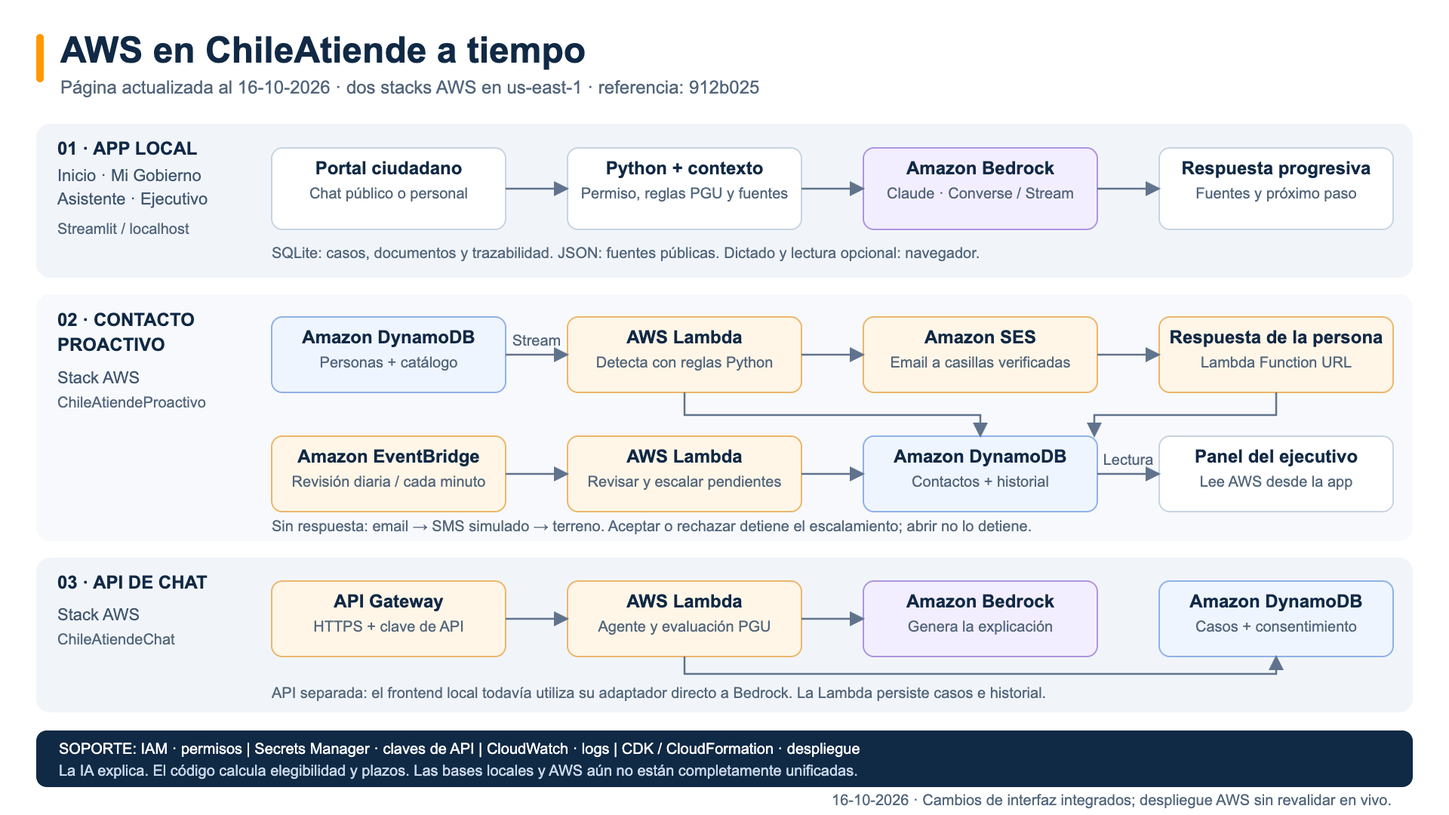
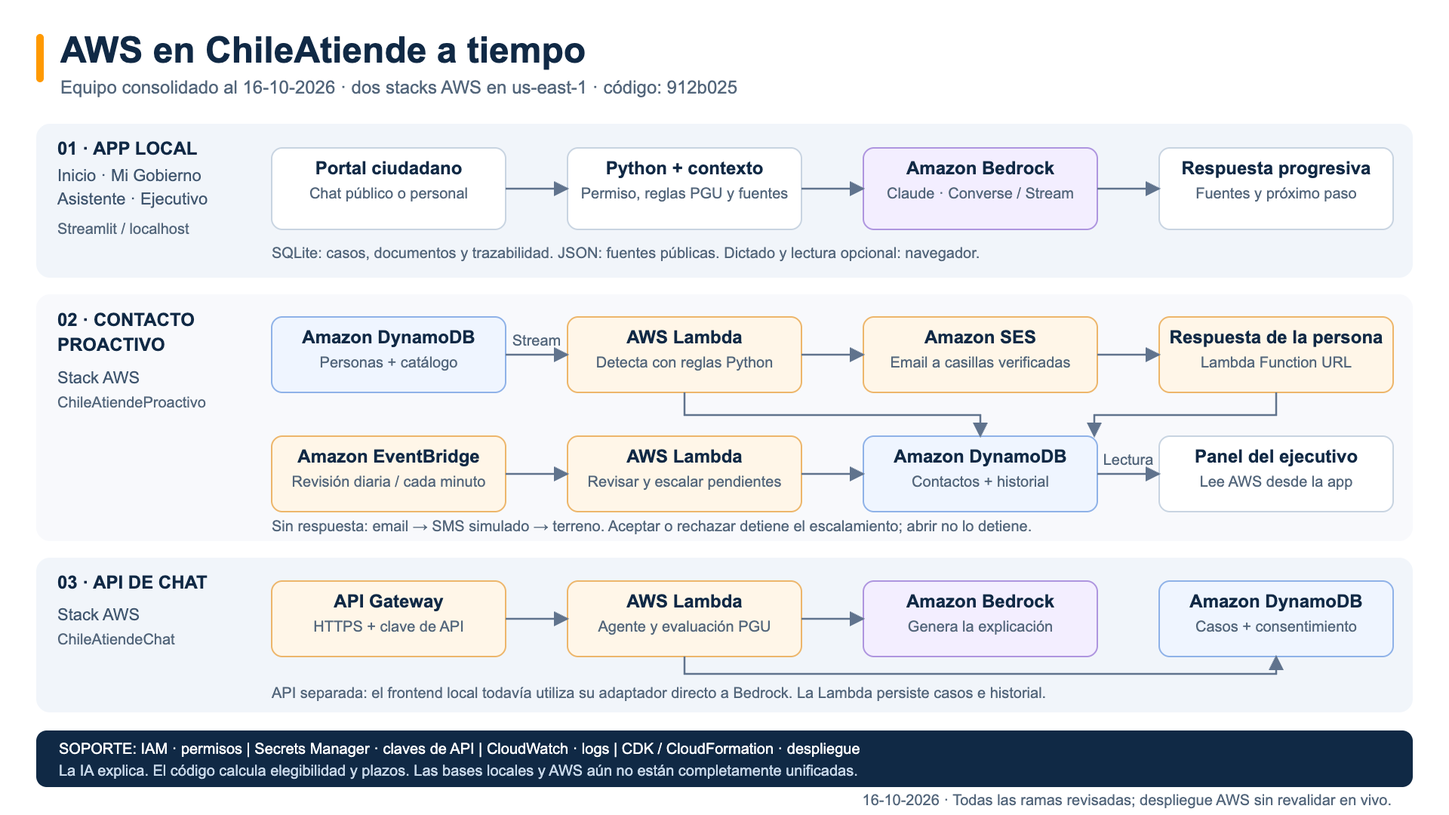
Consolidar presentación con aportes de todo el equipo

Changed region(s): [[0.0312, 0.0917, 0.5312, 0.1222], [0.5625, 0.9778, 0.7812, 1.0]]

diff --git a/20-arquitectura/presentacion-aws/arquitectura-aws.html b/20-arquitectura/presentacion-aws/arquitectura-aws.html
@@ -14,6 +14,6 @@ text{font-family:Arial,Helvetica,sans-serif}
 <rect x="48" y="45" width="10" height="64" rx="5" fill="#ff9900"/>
 <text x="80" y="83" class="title">AWS en ChileAtiende a tiempo</text>
 <text x="80" y="124" class="subtitle">
-Página actualizada al 16-10-2026 · dos stacks AWS en us-east-1 · referencia: 912b025
+Equipo consolidado al 16-10-2026 · dos stacks AWS en us-east-1 · código: 912b025
 </text>
-<rect x="48" y="164" width="1824" height="204" rx="18" fill="#f1f5fa" stroke="none" stroke-width="2"/><text x="76" y="205" class="label" text-anchor="start">01 · APP LOCAL</text><text x="76" y="240" class="body" text-anchor="start">Inicio · Mi Gobierno</text><text x="76" y="271" class="body" text-anchor="start">Asistente · Ejecutivo</text><text x="76" y="310" class="small" text-anchor="start">Streamlit / localhost</text><rect x="360" y="196" width="310" height="108" rx="14" fill="#fff" stroke="#c8d4e1" stroke-width="2"/><text x="515.0" y="231" class="label" text-anchor="middle">Portal ciudadano</text><text x="515.0" y="263" class="small" text-anchor="middle">Chat público o personal</text><rect x="752" y="196" width="310" height="108" rx="14" fill="#fff" stroke="#c8d4e1" stroke-width="2"/><text x="907.0" y="231" class="label" text-anchor="middle">Python + contexto</text><text x="907.0" y="263" class="small" text-anchor="middle">Permiso, reglas PGU y fuentes</text><rect x="1144" y="196" width="310" height="108" rx="14" fill="#f3eeff" stroke="#ae95df" stroke-width="2"/><text x="1299.0" y="231" class="label" text-anchor="middle">Amazon Bedrock</text><text x="1299.0" y="263" class="small" text-anchor="middle">Claude · Converse / Stream</text><path d="M670,250 L752,250" stroke="#60738d" fill="none" stroke-width="2.5" marker-end="url(#arrow)"/><path d="M1062,250 L1144,250" stroke="#60738d" fill="none" stroke-width="2.5" marker-end="url(#arrow)"/><rect x="1536" y="196" width="310" height="108" rx="14" fill="#fff" stroke="#c8d4e1" stroke-width="2"/><text x="1691.0" y="231" class="label" text-anchor="middle">Respuesta progresiva</text><text x="1691.0" y="263" class="small" text-anchor="middle">Fuentes y próximo paso</text><path d="M1454,250 L1536,250" stroke="#60738d" fill="none" stroke-width="2.5" marker-end="url(#arrow)"/><text x="360" y="342" class="small" text-anchor="start">SQLite: casos, documentos y trazabilidad. JSON: fuentes públicas. Dictado y lectura opcional: navegador.</text><rect x="48" y="390" width="1824" height="327" rx="18" fill="#f8f9fc" stroke="none" stroke-width="2"/><text x="76" y="432" class="label" text-anchor="start">02 · CONTACTO</text><text x="76" y="465" class="label" text-anchor="start">PROACTIVO</text><text x="76" y="508" class="body" text-anchor="start">Stack AWS</text><text x="76" y="540" class="small" text-anchor="start">ChileAtiendeProactivo</text><rect x="360" y="420" width="310" height="100" rx="14" fill="#eff5ff" stroke="#8fb2e8" stroke-width="2"/><text x="515.0" y="455" class="label" text-anchor="middle">Amazon DynamoDB</text><text x="515.0" y="487" class="small" text-anchor="middle">Personas + catálogo</text><rect x="752" y="420" width="310" height="100" rx="14" fill="#fff6e8" stroke="#edb66b" stroke-width="2"/><text x="907.0" y="455" class="label" text-anchor="middle">AWS Lambda</text><text x="907.0" y="487" class="small" text-anchor="middle">Detecta con reglas Python</text><rect x="1144" y="420" width="310" height="100" rx="14" fill="#fff6e8" stroke="#edb66b" stroke-width="2"/><text x="1299.0" y="455" class="label" text-anchor="middle">Amazon SES</text><text x="1299.0" y="487" class="small" text-anchor="middle">Email a casillas verificadas</text><rect x="1536" y="420" width="310" height="100" rx="14" fill="#fff6e8" stroke="#edb66b" stroke-width="2"/><text x="1691.0" y="455" class="label" text-anchor="middle">Respuesta de la persona</text><text x="1691.0" y="487" class="small" text-anchor="middle">Lambda Function URL</text><path d="M670,470 L752,470" stroke="#60738d" fill="none" stroke-width="2.5" marker-end="url(#arrow)"/><text x="711.0" y="458.0" class="small" text-anchor="middle">Stream</text><path d="M1062,470 L1144,470" stroke="#60738d" fill="none" stroke-width="2.5" marker-end="url(#arrow)"/><path d="M1454,470 L1536,470" stroke="#60738d" fill="none" stroke-width="2.5" marker-end="url(#arrow)"/><rect x="360" y="578" width="310" height="100" rx="14" fill="#fff6e8" stroke="#edb66b" stroke-width="2"/><text x="515.0" y="613" class="label" text-anchor="middle">Amazon EventBridge</text><text x="515.0" y="645" class="small" text-anchor="middle">Revisión diaria / cada minuto</text><rect x="752" y="578" width="310" height="100" rx="14" fill="#fff6e8" stroke="#edb66b" stroke-width="2"/><text x="907.0" y="613" class="label" text-anchor="middle">AWS Lambda</text><text x="907.0" y="645" class="small" text-anchor="middle">Revisar y escalar pendientes</text><rect x="1144" y="578" width="310" height="100" rx="14" fill="#eff5ff" stroke="#8fb2e8" stroke-width="2"/><text x="1299.0" y="613" class="label" text-anchor="middle">Amazon DynamoDB</text><text x="1299.0" y="645" class="small" text-anchor="middle">Contactos + historial</text><rect x="1536" y="578" width="310" height="100" rx="14" fill="#fff" stroke="#c8d4e1" stroke-width="2"/><text x="1691.0" y="613" class="label" text-anchor="middle">Panel del ejecutivo</text><text x="1691.0" y="645" class="small" text-anchor="middle">Lee AWS desde la app</text><path d="M670,628 L752,628" stroke="#60738d" fill="none" stroke-width="2.5" marker-end="url(#arrow)"/><path d="M1062,628 L1144,628" stroke="#60738d" fill="none" stroke-width="2.5" marker-end="url(#arrow)"/><path d="M1454,628 L1536,628" stroke="#60738d" fill="none" stroke-width="2.5" marker-end="url(#arrow)"/><text x="1495.0" y="616.0" class="small" text-anchor="middle">Lectura</text><path d="M907,520 L907,550 L1299,550 L1299,578" stroke="#60738d" fill="none" stroke-width="2.5" marker-end="url(#arrow)"/><path d="M1691,520 L1691,550 L1450,550 L1450,578" stroke="#60738d" fill="none" stroke-width="2.5" marker-end="url(#arrow)"/><text x="360" y="704" class="small" text-anchor="start">Sin respuesta: email → SMS simulado → terreno. Aceptar o rechazar detiene el escalamiento; abrir no lo detiene.</text><rect x="48" y="739" width="1824" height="205" rx="18" fill="#f1f5fa" stroke="none" stroke-width="2"/><text x="76" y="780" class="label" text-anchor="start">03 · API DE CHAT</text><text x="76" y="822" class="body" text-anchor="start">Stack AWS</text><text x="76" y="854" class="small" text-anchor="start">ChileAtiendeChat</text><rect x="360" y="770" width="310" height="100" rx="14" fill="#fff6e8" stroke="#edb66b" stroke-width="2"/><text x="515.0" y="805" class="label" text-anchor="middle">API Gateway</text><text x="515.0" y="837" class="small" text-anchor="middle">HTTPS + clave de API</text><rect x="752" y="770" width="310" height="100" rx="14" fill="#fff6e8" stroke="#edb66b" stroke-width="2"/><text x="907.0" y="805" class="label" text-anchor="middle">AWS Lambda</text><text x="907.0" y="837" class="small" text-anchor="middle">Agente y evaluación PGU</text><rect x="1144" y="770" width="310" height="100" rx="14" fill="#f3eeff" stroke="#ae95df" stroke-width="2"/><text x="1299.0" y="805" class="label" text-anchor="middle">Amazon Bedrock</text><text x="1299.0" y="837" class="small" text-anchor="middle">Genera la explicación</text><rect x="1536" y="770" width="310" height="100" rx="14" fill="#eff5ff" stroke="#8fb2e8" stroke-width="2"/><text x="1691.0" y="805" class="label" text-anchor="middle">Amazon DynamoDB</text><text x="1691.0" y="837" class="small" text-anchor="middle">Casos + consentimiento</text><path d="M670,820 L752,820" stroke="#60738d" fill="none" stroke-width="2.5" marker-end="url(#arrow)"/><path d="M1062,820 L1144,820" stroke="#60738d" fill="none" stroke-width="2.5" marker-end="url(#arrow)"/><path d="M907,870 L907,893 L1691,893 L1691,870" stroke="#60738d" fill="none" stroke-width="2.5" marker-end="url(#arrow)"/><text x="360" y="925" class="small" text-anchor="start">API separada: el frontend local todavía utiliza su adaptador directo a Bedrock. La Lambda persiste casos e historial.</text><rect x="48" y="968" width="1824" height="75" rx="14" fill="#102945" stroke="none" stroke-width="2"/><text x="78" y="999" class="small" text-anchor="start" style="fill:#fff">SOPORTE: IAM · permisos  |  Secrets Manager · claves de API  |  CloudWatch · logs  |  CDK / CloudFormation · despliegue</text><text x="78" y="1028" class="small" text-anchor="start" style="fill:#c9d9ea">La IA explica. El código calcula elegibilidad y plazos. Las bases locales y AWS aún no están completamente unificadas.</text><text x="1844" y="1067" class="small" text-anchor="end">16-10-2026 · Cambios de interfaz integrados; despliegue AWS sin revalidar en vivo.</text></svg>
+<rect x="48" y="164" width="1824" height="204" rx="18" fill="#f1f5fa" stroke="none" stroke-width="2"/><text x="76" y="205" class="label" text-anchor="start">01 · APP LOCAL</text><text x="76" y="240" class="body" text-anchor="start">Inicio · Mi Gobierno</text><text x="76" y="271" class="body" text-anchor="start">Asistente · Ejecutivo</text><text x="76" y="310" class="small" text-anchor="start">Streamlit / localhost</text><rect x="360" y="196" width="310" height="108" rx="14" fill="#fff" stroke="#c8d4e1" stroke-width="2"/><text x="515.0" y="231" class="label" text-anchor="middle">Portal ciudadano</text><text x="515.0" y="263" class="small" text-anchor="middle">Chat público o personal</text><rect x="752" y="196" width="310" height="108" rx="14" fill="#fff" stroke="#c8d4e1" stroke-width="2"/><text x="907.0" y="231" class="label" text-anchor="middle">Python + contexto</text><text x="907.0" y="263" class="small" text-anchor="middle">Permiso, reglas PGU y fuentes</text><rect x="1144" y="196" width="310" height="108" rx="14" fill="#f3eeff" stroke="#ae95df" stroke-width="2"/><text x="1299.0" y="231" class="label" text-anchor="middle">Amazon Bedrock</text><text x="1299.0" y="263" class="small" text-anchor="middle">Claude · Converse / Stream</text><path d="M670,250 L752,250" stroke="#60738d" fill="none" stroke-width="2.5" marker-end="url(#arrow)"/><path d="M1062,250 L1144,250" stroke="#60738d" fill="none" stroke-width="2.5" marker-end="url(#arrow)"/><rect x="1536" y="196" width="310" height="108" rx="14" fill="#fff" stroke="#c8d4e1" stroke-width="2"/><text x="1691.0" y="231" class="label" text-anchor="middle">Respuesta progresiva</text><text x="1691.0" y="263" class="small" text-anchor="middle">Fuentes y próximo paso</text><path d="M1454,250 L1536,250" stroke="#60738d" fill="none" stroke-width="2.5" marker-end="url(#arrow)"/><text x="360" y="342" class="small" text-anchor="start">SQLite: casos, documentos y trazabilidad. JSON: fuentes públicas. Dictado y lectura opcional: navegador.</text><rect x="48" y="390" width="1824" height="327" rx="18" fill="#f8f9fc" stroke="none" stroke-width="2"/><text x="76" y="432" class="label" text-anchor="start">02 · CONTACTO</text><text x="76" y="465" class="label" text-anchor="start">PROACTIVO</text><text x="76" y="508" class="body" text-anchor="start">Stack AWS</text><text x="76" y="540" class="small" text-anchor="start">ChileAtiendeProactivo</text><rect x="360" y="420" width="310" height="100" rx="14" fill="#eff5ff" stroke="#8fb2e8" stroke-width="2"/><text x="515.0" y="455" class="label" text-anchor="middle">Amazon DynamoDB</text><text x="515.0" y="487" class="small" text-anchor="middle">Personas + catálogo</text><rect x="752" y="420" width="310" height="100" rx="14" fill="#fff6e8" stroke="#edb66b" stroke-width="2"/><text x="907.0" y="455" class="label" text-anchor="middle">AWS Lambda</text><text x="907.0" y="487" class="small" text-anchor="middle">Detecta con reglas Python</text><rect x="1144" y="420" width="310" height="100" rx="14" fill="#fff6e8" stroke="#edb66b" stroke-width="2"/><text x="1299.0" y="455" class="label" text-anchor="middle">Amazon SES</text><text x="1299.0" y="487" class="small" text-anchor="middle">Email a casillas verificadas</text><rect x="1536" y="420" width="310" height="100" rx="14" fill="#fff6e8" stroke="#edb66b" stroke-width="2"/><text x="1691.0" y="455" class="label" text-anchor="middle">Respuesta de la persona</text><text x="1691.0" y="487" class="small" text-anchor="middle">Lambda Function URL</text><path d="M670,470 L752,470" stroke="#60738d" fill="none" stroke-width="2.5" marker-end="url(#arrow)"/><text x="711.0" y="458.0" class="small" text-anchor="middle">Stream</text><path d="M1062,470 L1144,470" stroke="#60738d" fill="none" stroke-width="2.5" marker-end="url(#arrow)"/><path d="M1454,470 L1536,470" stroke="#60738d" fill="none" stroke-width="2.5" marker-end="url(#arrow)"/><rect x="360" y="578" width="310" height="100" rx="14" fill="#fff6e8" stroke="#edb66b" stroke-width="2"/><text x="515.0" y="613" class="label" text-anchor="middle">Amazon EventBridge</text><text x="515.0" y="645" class="small" text-anchor="middle">Revisión diaria / cada minuto</text><rect x="752" y="578" width="310" height="100" rx="14" fill="#fff6e8" stroke="#edb66b" stroke-width="2"/><text x="907.0" y="613" class="label" text-anchor="middle">AWS Lambda</text><text x="907.0" y="645" class="small" text-anchor="middle">Revisar y escalar pendientes</text><rect x="1144" y="578" width="310" height="100" rx="14" fill="#eff5ff" stroke="#8fb2e8" stroke-width="2"/><text x="1299.0" y="613" class="label" text-anchor="middle">Amazon DynamoDB</text><text x="1299.0" y="645" class="small" text-anchor="middle">Contactos + historial</text><rect x="1536" y="578" width="310" height="100" rx="14" fill="#fff" stroke="#c8d4e1" stroke-width="2"/><text x="1691.0" y="613" class="label" text-anchor="middle">Panel del ejecutivo</text><text x="1691.0" y="645" class="small" text-anchor="middle">Lee AWS desde la app</text><path d="M670,628 L752,628" stroke="#60738d" fill="none" stroke-width="2.5" marker-end="url(#arrow)"/><path d="M1062,628 L1144,628" stroke="#60738d" fill="none" stroke-width="2.5" marker-end="url(#arrow)"/><path d="M1454,628 L1536,628" stroke="#60738d" fill="none" stroke-width="2.5" marker-end="url(#arrow)"/><text x="1495.0" y="616.0" class="small" text-anchor="middle">Lectura</text><path d="M907,520 L907,550 L1299,550 L1299,578" stroke="#60738d" fill="none" stroke-width="2.5" marker-end="url(#arrow)"/><path d="M1691,520 L1691,550 L1450,550 L1450,578" stroke="#60738d" fill="none" stroke-width="2.5" marker-end="url(#arrow)"/><text x="360" y="704" class="small" text-anchor="start">Sin respuesta: email → SMS simulado → terreno. Aceptar o rechazar detiene el escalamiento; abrir no lo detiene.</text><rect x="48" y="739" width="1824" height="205" rx="18" fill="#f1f5fa" stroke="none" stroke-width="2"/><text x="76" y="780" class="label" text-anchor="start">03 · API DE CHAT</text><text x="76" y="822" class="body" text-anchor="start">Stack AWS</text><text x="76" y="854" class="small" text-anchor="start">ChileAtiendeChat</text><rect x="360" y="770" width="310" height="100" rx="14" fill="#fff6e8" stroke="#edb66b" stroke-width="2"/><text x="515.0" y="805" class="label" text-anchor="middle">API Gateway</text><text x="515.0" y="837" class="small" text-anchor="middle">HTTPS + clave de API</text><rect x="752" y="770" width="310" height="100" rx="14" fill="#fff6e8" stroke="#edb66b" stroke-width="2"/><text x="907.0" y="805" class="label" text-anchor="middle">AWS Lambda</text><text x="907.0" y="837" class="small" text-anchor="middle">Agente y evaluación PGU</text><rect x="1144" y="770" width="310" height="100" rx="14" fill="#f3eeff" stroke="#ae95df" stroke-width="2"/><text x="1299.0" y="805" class="label" text-anchor="middle">Amazon Bedrock</text><text x="1299.0" y="837" class="small" text-anchor="middle">Genera la explicación</text><rect x="1536" y="770" width="310" height="100" rx="14" fill="#eff5ff" stroke="#8fb2e8" stroke-width="2"/><text x="1691.0" y="805" class="label" text-anchor="middle">Amazon DynamoDB</text><text x="1691.0" y="837" class="small" text-anchor="middle">Casos + consentimiento</text><path d="M670,820 L752,820" stroke="#60738d" fill="none" stroke-width="2.5" marker-end="url(#arrow)"/><path d="M1062,820 L1144,820" stroke="#60738d" fill="none" stroke-width="2.5" marker-end="url(#arrow)"/><path d="M907,870 L907,893 L1691,893 L1691,870" stroke="#60738d" fill="none" stroke-width="2.5" marker-end="url(#arrow)"/><text x="360" y="925" class="small" text-anchor="start">API separada: el frontend local todavía utiliza su adaptador directo a Bedrock. La Lambda persiste casos e historial.</text><rect x="48" y="968" width="1824" height="75" rx="14" fill="#102945" stroke="none" stroke-width="2"/><text x="78" y="999" class="small" text-anchor="start" style="fill:#fff">SOPORTE: IAM · permisos  |  Secrets Manager · claves de API  |  CloudWatch · logs  |  CDK / CloudFormation · despliegue</text><text x="78" y="1028" class="small" text-anchor="start" style="fill:#c9d9ea">La IA explica. El código calcula elegibilidad y plazos. Las bases locales y AWS aún no están completamente unificadas.</text><text x="1844" y="1067" class="small" text-anchor="end">16-10-2026 · Todas las ramas revisadas; despliegue AWS sin revalidar en vivo.</text></svg>

diff --git a/20-arquitectura/presentacion-aws/aportes-equipo.html b/20-arquitectura/presentacion-aws/aportes-equipo.html
@@ -1,0 +1,13 @@
+<!doctype html><meta charset="utf-8"><style>html,body{margin:0;width:1920px;height:1080px;overflow:hidden}svg{display:block}</style><svg xmlns="http://www.w3.org/2000/svg" width="1920" height="1080" viewBox="0 0 1920 1080">
+<defs><marker id="arrow" viewBox="0 0 10 10" refX="9" refY="5" markerWidth="8"
+markerHeight="8" orient="auto-start-reverse">
+<path d="M0,0 L10,5 L0,10 Z" fill="#60738d"/></marker></defs>
+<style>
+text{font-family:Arial,Helvetica,sans-serif}
+.title{font-size:48px;font-weight:700;fill:#102945}
+.subtitle{font-size:24px;fill:#53667b}
+.label{font-size:24px;font-weight:700;fill:#102945}
+.body{font-size:22px;fill:#3f556e}
+.small{font-size:20px;fill:#53667b}
+</style>
+<rect width="1920" height="1080" fill="#fff"/><text x="72" y="82" class="title" text-anchor="start">Aportes consolidados del equipo</text><text x="72" y="127" class="subtitle" text-anchor="start">Cinco integrantes · revisión de todas las ramas remotas · 16-10-2026</text><rect x="48" y="177" width="1824" height="126" rx="18" fill="#f1f5fa" stroke="none" stroke-width="2"/><text x="80" y="223" class="label" text-anchor="start">Johann</text><text x="360" y="216" class="label" text-anchor="start">Base de la aplicación y motor de rutas</text><text x="360" y="252" class="body" text-anchor="start">Portal, Mi Gobierno, reglas PGU y catálogo público para el asistente.</text><text x="360" y="284" class="small" text-anchor="start">0d06dab · ad7efb0</text><text x="1825" y="282" class="small" text-anchor="end">Código integrado</text><rect x="48" y="321" width="1824" height="126" rx="18" fill="#f8f9fc" stroke="none" stroke-width="2"/><text x="80" y="367" class="label" text-anchor="start">Clemente</text><text x="360" y="360" class="label" text-anchor="start">Detección, contacto y seguimiento</text><text x="360" y="396" class="body" text-anchor="start">Flujo proactivo AWS, colador local, campañas, ficha y trazabilidad.</text><text x="360" y="428" class="small" text-anchor="start">edb8191 · 96abb06</text><text x="1825" y="426" class="small" text-anchor="end">Código integrado</text><rect x="48" y="465" width="1824" height="126" rx="18" fill="#f1f5fa" stroke="none" stroke-width="2"/><text x="80" y="511" class="label" text-anchor="start">Jonmor</text><text x="360" y="504" class="label" text-anchor="start">API del chat y continuidad conversacional</text><text x="360" y="540" class="body" text-anchor="start">Casos DynamoDB, consentimiento, Bedrock, pruebas, memoria y voz.</text><text x="360" y="572" class="small" text-anchor="start">df99c3b · 7ba7c2f</text><text x="1825" y="570" class="small" text-anchor="end">Código integrado</text><rect x="48" y="609" width="1824" height="126" rx="18" fill="#f8f9fc" stroke="none" stroke-width="2"/><text x="80" y="655" class="label" text-anchor="start">Bruno</text><text x="360" y="648" class="label" text-anchor="start">Investigación y diseño de la experiencia</text><text x="360" y="684" class="body" text-anchor="start">Contexto de personas mayores, accesibilidad y propuestas de flujo.</text><text x="360" y="716" class="small" text-anchor="start">f4ca21c · d9eb707</text><text x="1825" y="714" class="small" text-anchor="end">Documentación integrada</text><rect x="48" y="753" width="1824" height="126" rx="18" fill="#f1f5fa" stroke="none" stroke-width="2"/><text x="80" y="799" class="label" text-anchor="start">Jp</text><text x="360" y="792" class="label" text-anchor="start">Experiencia de usuario y presentación</text><text x="360" y="828" class="body" text-anchor="start">Estilo visual, micrófono, respuestas progresivas y material del pitch.</text><text x="360" y="860" class="small" text-anchor="start">8909d96 · 3d2f6d2</text><text x="1825" y="858" class="small" text-anchor="end">Código y material integrados</text><rect x="48" y="923" width="1824" height="102" rx="14" fill="#102945" stroke="none" stroke-width="2"/><text x="78" y="963" class="label" text-anchor="start" style="fill:#fff">UNA SOLUCIÓN COMPARTIDA</text><text x="78" y="1000" class="body" text-anchor="start" style="fill:#fff">Detectar → contactar → autorizar → orientar → acompañar → seguimiento del ejecutivo</text><text x="72" y="1066" class="small" text-anchor="start">Los aportes se superponen. Las propuestas de investigación no equivalen a funciones implementadas.</text></svg>

diff --git a/scripts/generar_presentacion_aws.py b/scripts/generar_presentacion_aws.py
@@ -23,7 +23,7 @@ text{font-family:Arial,Helvetica,sans-serif}
 <rect x="48" y="45" width="10" height="64" rx="5" fill="#ff9900"/>
 <text x="80" y="83" class="title">AWS en ChileAtiende a tiempo</text>
 <text x="80" y="124" class="subtitle">
-Página actualizada al 16-10-2026 · dos stacks AWS en us-east-1 · referencia: 912b025
+Equipo consolidado al 16-10-2026 · dos stacks AWS en us-east-1 · código: 912b025
 </text>
 """
 ]
@@ -170,7 +170,7 @@ txt(
 txt(
     1844,
     1067,
-    "16-10-2026 · Cambios de interfaz integrados; despliegue AWS sin revalidar en vivo.",
+    "16-10-2026 · Todas las ramas revisadas; despliegue AWS sin revalidar en vivo.",
     "small",
     "end",
 )
@@ -317,6 +317,82 @@ journey = "".join(parts)
 )
 print(OUT / "recorrido-pagina.svg")
 
+# Tercera diapositiva: aportes trazables en commits y documentación del equipo.
+parts = [svg[: svg.index('<rect width="1920"')], '<rect width="1920" height="1080" fill="#fff"/>']
+txt(72, 82, "Aportes consolidados del equipo", "title")
+txt(72, 127, "Cinco integrantes · revisión de todas las ramas remotas · 16-10-2026", "subtitle")
+contributions = [
+    (
+        "Johann",
+        "Base de la aplicación y motor de rutas",
+        "Portal, Mi Gobierno, reglas PGU y catálogo público para el asistente.",
+        "0d06dab · ad7efb0",
+        "Código integrado",
+    ),
+    (
+        "Clemente",
+        "Detección, contacto y seguimiento",
+        "Flujo proactivo AWS, colador local, campañas, ficha y trazabilidad.",
+        "edb8191 · 96abb06",
+        "Código integrado",
+    ),
+    (
+        "Jonmor",
+        "API del chat y continuidad conversacional",
+        "Casos DynamoDB, consentimiento, Bedrock, pruebas, memoria y voz.",
+        "df99c3b · 7ba7c2f",
+        "Código integrado",
+    ),
+    (
+        "Bruno",
+        "Investigación y diseño de la experiencia",
+        "Contexto de personas mayores, accesibilidad y propuestas de flujo.",
+        "f4ca21c · d9eb707",
+        "Documentación integrada",
+    ),
+    (
+        "Jp",
+        "Experiencia de usuario y presentación",
+        "Estilo visual, micrófono, respuestas progresivas y material del pitch.",
+        "8909d96 · 3d2f6d2",
+        "Código y material integrados",
+    ),
+]
+for index, (person, title, description, commits, status) in enumerate(contributions):
+    y = 177 + index * 144
+    rect(48, y, 1824, 126, "#f1f5fa" if index % 2 == 0 else "#f8f9fc")
+    txt(80, y + 46, person, "label")
+    txt(360, y + 39, title, "label")
+    txt(360, y + 75, description, "body")
+    txt(360, y + 107, commits, "small")
+    txt(1825, y + 105, status, "small", "end")
+rect(48, 923, 1824, 102, "#102945", r=14)
+txt(78, 963, "UNA SOLUCIÓN COMPARTIDA", "label", fill="#fff")
+txt(
+    78,
+    1000,
+    "Detectar → contactar → autorizar → orientar → acompañar → seguimiento del ejecutivo",
+    "body",
+    fill="#fff",
+)
+txt(
+    72,
+    1066,
+    "Los aportes se superponen. Las propuestas de investigación "
+    "no equivalen a funciones implementadas.",
+    "small",
+)
+parts.append("</svg>")
+team = "".join(parts)
+(OUT / "aportes-equipo.svg").write_text(team, encoding="utf-8")
+(OUT / "aportes-equipo.html").write_text(
+    '<!doctype html><meta charset="utf-8">'
+    "<style>html,body{margin:0;width:1920px;height:1080px;overflow:hidden}"
+    "svg{display:block}</style>" + team,
+    encoding="utf-8",
+)
+print(OUT / "aportes-equipo.svg")
+
 if __name__ == "__main__":
     parser = argparse.ArgumentParser(description=__doc__)
     parser.add_argument("--png", action="store_true", help="Exportar con Playwright y Chrome")
@@ -338,7 +414,7 @@ if __name__ == "__main__":
         with sync_playwright() as playwright:
             browser = playwright.chromium.launch(executable_path=chrome, headless=True)
             page = browser.new_page(viewport={"width": 1920, "height": 1080})
-            for name in ("arquitectura-aws", "recorrido-pagina"):
+            for name in ("arquitectura-aws", "recorrido-pagina", "aportes-equipo"):
                 page.goto((OUT / f"{name}.html").as_uri())
                 overflow = page.locator("svg text").evaluate_all("""els => els.filter(e => {
                     const b = e.getBBox();

diff --git a/20-arquitectura/presentacion-servicios-aws.md b/20-arquitectura/presentacion-servicios-aws.md
@@ -2,6 +2,7 @@
 tipo: presentacion
 fecha: 2026-10-16
 referencia_codigo: 912b025
+integracion_equipo: d06e521
 ---
 # Servicios AWS y recorrido actual de la página
 
@@ -9,10 +10,25 @@ Material para presentar [[arquitectura-chileatiende]], [[mi-gobierno]] y [[porta
 
 ## Diagramas para las diapositivas
 
-Ambas láminas usan formato 16:9, 1920 × 1080. SVG permite editar o escalar y PNG permite insertar directamente en PowerPoint/Google Slides. HTML abre la misma lámina en el navegador.
+Las tres láminas usan formato 16:9, 1920 × 1080. SVG permite editar o escalar y PNG permite insertar directamente en PowerPoint/Google Slides. HTML abre la misma lámina en el navegador.
 
 - Arquitectura: [PNG](presentacion-aws/arquitectura-aws.png) · [SVG](presentacion-aws/arquitectura-aws.svg) · [HTML](presentacion-aws/arquitectura-aws.html).
 - Recorrido de la página: [PNG](presentacion-aws/recorrido-pagina.png) · [SVG](presentacion-aws/recorrido-pagina.svg) · [HTML](presentacion-aws/recorrido-pagina.html).
+- Aportes del equipo: [PNG](presentacion-aws/aportes-equipo.png) · [SVG](presentacion-aws/aportes-equipo.svg) · [HTML](presentacion-aws/aportes-equipo.html).
+
+## Aportes consolidados de todos
+
+Se revisaron todas las ramas publicadas de `origin`. `origin/main` permanece en `912b025`; sus cambios ya estaban integrados. La rama `origin/johann/app-mvp-ruta-pgu` también es antecesora del checkout. El único commit remoto fuera del historial era `d9eb707` de `origin/brunoupdates`: la investigación ya existía en `f4ca21c` con el mismo contenido, salvo saltos de línea. Se integra su historial en `d06e521`, preservando la copia existente sin duplicarla. No había funciones nuevas de AWS o de la página pendientes en esas ramas.
+
+| Integrante | Aportes presentes en la solución | Evidencia representativa |
+|---|---|---|
+| Johann | App Streamlit, reglas/rutas, Mi Gobierno y base de conocimiento oficial | `0d06dab`, `ad7efb0` |
+| Clemente | Colador, detección proactiva AWS, campañas, ejecutivo y trazabilidad | `7d1d8e0`, `edb8191`, `81755d7`, `96abb06` |
+| Jonmor | API del chat, persistencia DynamoDB, autorización, evaluación, conversación y voz | `df99c3b`, `7ba7c2f` |
+| Bruno | Investigación sobre personas mayores, accesibilidad, diseño y especificaciones | `f4ca21c`, `d9eb707`, `b21b0f1` |
+| Jp | Diseño del frontend, streaming, micrófono, consulta personal y presentación | `8909d96`, `85244ef`, `a9a28af`, `3d2f6d2` |
+
+La tabla resume evidencia del trabajo compartido; los aportes se superponen. La investigación de Bruno se conserva como contexto y propuestas: sus cifras y recomendaciones no se convierten automáticamente en resultados del producto ni en implementaciones adicionales. Las decisiones de elegibilidad siguen en código.
 
 ## Qué cambió en la página
 

diff --git a/35-roles/Clemente/board-clemente.md b/35-roles/Clemente/board-clemente.md
@@ -15,7 +15,6 @@ entorno: Claude Code + Codex
 Lista de pendientes propia, sin tareas asignadas. Ordenada según el pipeline de [[_equipo]].
 
 ## En curso
-- [ ] Consolidar aportes de todas las ramas remotas y actualizar trazabilidad del equipo en la presentación · [[presentacion-servicios-aws]].
 - [ ] Detección proactiva en AWS (DynamoDB Streams + Lambda + SES): desplegada el 15-10 en la cuenta del evento (stack `ChileAtiendeProactivo`), 618 contactos simulados cargados; falta verificar la casilla en SES y probar la demo estrella · [[deteccion-proactiva-aws]]
 
 ## Por hacer
@@ -69,6 +68,7 @@ Los plazos son propuestas de demo, no plazos institucionales. El acompañamiento
 - Datos reales de contacto/provincia siguen pendientes de los mentores. La capa sintética desbloquea el colador de demo y puede alimentar el futuro heatmap; no representa domicilios reales.
 
 ## Hecho
+- [x] Revisadas e integradas todas las ramas remotas del equipo; historial de investigación de Bruno conciliado sin duplicar documento (`d06e521`). Presentación consolidada con tercera lámina de aportes, SVG/PNG/HTML y copia temporal actualizados. Sin cambios funcionales respecto de la última suite de 305 pruebas · [[presentacion-servicios-aws]].
 - [x] Presentación AWS actualizada al 16-10: arquitectura y recorrido vigente en SVG/PNG/HTML, explicación y guion; copia temporal del SVG abierto renovada. Cambios de página hasta `912b025` integrados (`ee1829e`), 305 pruebas y verificador de 500 perfiles OK · [[presentacion-servicios-aws]].
 - [x] Últimos pushes integrados hasta `5fc01c9`; verificación local: 282 pruebas, 15 de conocimiento, 500 perfiles y ambos chats en Chrome 390/1440 px OK. Tras alineación: 47 pruebas relacionadas OK. AWS real pendiente por ausencia de perfil en esta terminal; lint global heredado documentado. `f4dc140`, `2ffeca8`, integración `8c3686b` · [[verificacion-integracion-2026-10-15]].
 - [x] Animaciones del home: entrada escalonada, revelado al hacer scroll y tarjetas con hover suave. Cinco pruebas, Ruff y Chromium 390/1440 px normal/reducido OK. [[portal-ayuda-tramites]]. Commit: Pulir animaciones del home.

diff --git a/35-roles/Clemente/bitacora-clemente.md b/35-roles/Clemente/bitacora-clemente.md
@@ -4,6 +4,11 @@ integrante: Clemente
 ---
 # Bitácora de Clemente
 
+### 2026-10-16 · Consolidación de aportes de todos · `d06e521`
+- `origin/main` no tenía nuevos cambios; inspeccionadas todas las ramas remotas. Único commit no incluido: `d9eb707` de Bruno, investigación idéntica a la ya incorporada salvo CRLF/LF. Merge add/add resuelto conservando el documento existente; todas las puntas remotas son antecesoras del checkout.
+- Presentación con aportes trazables de Johann, Clemente, Jonmor, Bruno y Jp; tercera lámina editable y exportaciones PNG/HTML. Renovada la copia temporal del archivo abierto. No se presentan propuestas de investigación como funciones existentes.
+- Diff de `src/`, `infra/`, tests y dependencias vacío respecto de `3d2f6d2`: se conserva la última validación de 305 pruebas; no se repite la suite por cambios documentales. Ruff del generador, XML, límites del texto y revisión visual de las láminas OK. [[presentacion-servicios-aws]].
+
 ### 2026-10-16 · Actualizar la presentación con la página vigente · integración `ee1829e`
 - Incorporados ocho commits hasta `912b025`: home, datos personales, detalles de beneficios y mejoras de conversación/streaming/scroll. Conflictos del board y prueba de streaming resueltos conservando las citas controladas y la nueva regresión sin cursor.
 - Dos diagramas 16:9 (arquitectura y recorrido de página) versionados en `20-arquitectura/presentacion-aws/`, con SVG, PNG y HTML; generador reproducible y explicación/guion en [[presentacion-servicios-aws]]. Renovados los archivos temporales abiertos por el usuario.

diff --git a/40-bitacora/2026-10-16.md b/40-bitacora/2026-10-16.md
@@ -4,6 +4,8 @@ fecha: 2026-10-16
 ---
 # Bitácora del 16 de octubre
 
+- Codex: revisadas todas las ramas del equipo y conciliado el historial de Bruno (`d06e521`) sin duplicar su investigación ya existente. Presentación actualizada con tercera lámina de aportes de los cinco integrantes y referencias a commits; todas las ramas remotas incluidas. Sin cambios funcionales, última suite de 305 pruebas conservada; Ruff/XML/exportaciones y revisión visual OK. [[presentacion-servicios-aws]].
+
 - Codex: actualizados los materiales de presentación con la página hasta `912b025`, integración `ee1829e`. Arquitectura y recorrido en SVG/PNG/HTML, guion, explicación y generador reproducible; copia del SVG abierto renovada. 305 pruebas, verificador de 500 perfiles, validación XML e imágenes sin desborde OK. [[presentacion-servicios-aws]].
 
 - 16-10: Home con entrada escalonada de título, descripción y campo de consulta; secciones reveladas al hacer scroll y tarjetas/enlaces con respuesta suave al puntero. Reutiliza motion.css, mantiene el carrusel y desactiva efectos con movimiento reducido. Cinco pruebas del portal, Ruff y Chromium 390/1440 px (movimiento normal/reducido, teclado y ancho) OK. Verificador: `python scripts/verificar_animaciones_home.py`. [[portal-ayuda-tramites]]. Commit: Pulir animaciones del home.

diff --git a/20-arquitectura/arquitectura-chileatiende.md b/20-arquitectura/arquitectura-chileatiende.md
@@ -7,7 +7,7 @@ revision: 2026-10-15 (estado real del código y detección proactiva en AWS)
 ---
 # Arquitectura — ChileAtiende a tiempo
 
-**Material de presentación actualizado el 16-10:** [[presentacion-servicios-aws]] incluye arquitectura SVG/PNG/HTML y recorrido de la página vigente (Inicio, Mi Gobierno, Asistente de IA y Vista ejecutivo). Los cambios de interfaz hasta `912b025` no agregan servicios AWS ni completan la migración del frontend a la API.
+**Material de presentación actualizado el 16-10:** [[presentacion-servicios-aws]] incluye arquitectura SVG/PNG/HTML, recorrido de la página vigente (Inicio, Mi Gobierno, Asistente de IA y Vista ejecutivo) y aportes de los cinco integrantes, tras revisar todas las ramas remotas. Los cambios de interfaz hasta `912b025` y la conciliación documental de Bruno (`d06e521`) no agregan servicios AWS ni completan la migración del frontend a la API.
 
 **Revisión 15-10 (tarde):** esta nota describe lo que **existe hoy**, no solo lo planificado. Hay cuatro bloques:
 1. **App de demostración** (Streamlit, `src/app/`): portal ciudadano, Mi Gobierno y herramientas del ejecutivo, con reglas, casos y colador en SQLite local.
